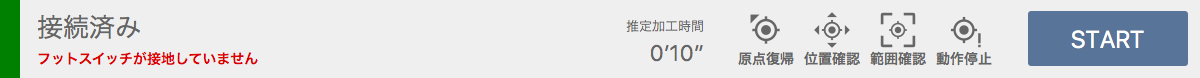
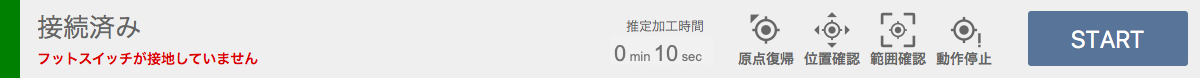
update estimate time image

Changed region(s): [[0.4933, 0.5641, 0.5858, 0.7949]]

diff --git a/manual/names.md b/manual/names.md
@@ -73,7 +73,7 @@
 ここでは、加工機に関する情報や加工機への動作命令を行うことができます。
 加工機との接続状態は「接続済み」「未接続」で表示されます。また、エラーがある場合はエラー内容も表示されます。
 
-- 推定加工時間: 現在のプロジェクトのおおよその加工時間を `時間 : 分 ' 秒 ''` で表示します。
+- 推定加工時間: 現在のプロジェクトのおおよその加工時間を `時間 hr 分 min 秒 sec` で表示します。
 - 原点復帰: 加工機がレーザヘッドの原点位置を確認し、ヘッド位置の誤差を解消します。
 - 位置確認: 位置確認モードへの切り替えを行います。このモードではグラフィックエリアにレーザヘッドのアイコンが表示され、オブジェクトの実際の加工位置を確認できます。位置確認モードを解除する場合はこのアイコンをもう一度クリックします。
 - 範囲確認: 加工機のレーザヘッドが加工範囲を示します。
